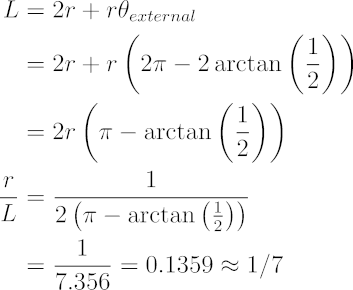
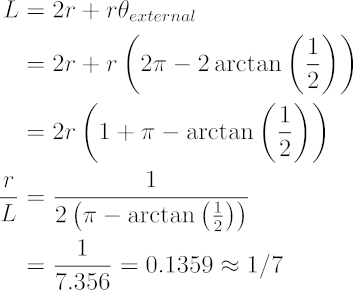
It's ok

diff --git a/index.html b/index.html
@@ -36,11 +36,8 @@
 
 		<div class="listlinks">
 			<ul>
-			<!--
 				<li><a href=blog/pages/02-14-16>
 					Added 02/14/16: The Sakai Top</a></li>
-
-				-->
 				<li><a href="things/pages/11-13-15">
 					Updated 1/21/16: Proximity Box</a></li>
 				<li><a href="things/pages/10-10-14">

diff --git a/blog/index.html b/blog/index.html
@@ -32,10 +32,8 @@
 
 		<div class="listlinks">
 		<ul>
-			<!--
 			<li><a href=pages/02-14-16>
 				02/14/16: The Sakai Top</a></li>
-				-->
 			<li><a href=pages/01-06-16>
 				01/06/16: An Infrared Reflectance Measurement Prototype</a></li>
 			<li><a href=pages/01-05-16>

diff --git a/blog/pages/02-14-16/latex/13.tex b/blog/pages/02-14-16/latex/13.tex
@@ -6,7 +6,7 @@
 \begin{align*}
 L &= 2r + r\theta_{external} \\
   &= 2r + r\left(2\pi - 2\arctan\left(\frac{1}{2}\right)\right) \\
-  &= 2r\left(\pi - \arctan\left(\frac{1}{2}\right)\right) \\ 
+  &= 2r\left(1 + \pi - \arctan\left(\frac{1}{2}\right)\right) \\ 
 \frac{r}{L} &= \frac{1}{2\left(\pi - \arctan\left(\frac{1}{2}\right)\right)} \\
             &= \frac{1}{7.356} = 0.1359 \approx 1/7
 \end{align*}

diff --git a/blog/pages/02-14-16/latex/14.tex b/blog/pages/02-14-16/latex/14.tex
@@ -7,7 +7,7 @@
 L_{chord} &= 2r\sin\phi \\
           &= r \cdot 0.8943 \\
           &= (L/7.356) \cdot 0.8943 \\
-          &= 0.1215 L \\
+          &= 0.1216 L \\
 					&\approx \frac{1}{8} L
 \end{align*}
 
